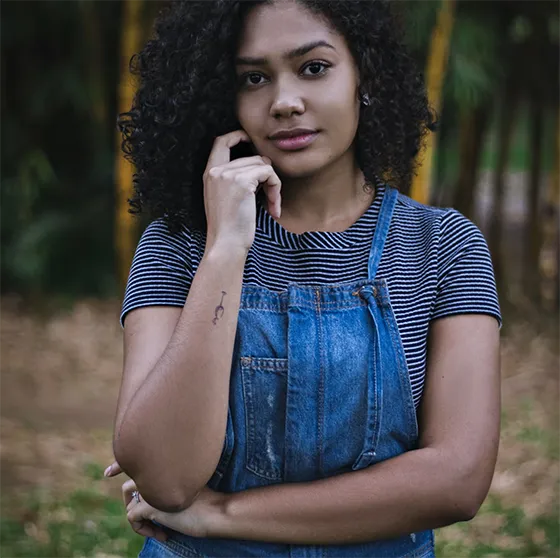
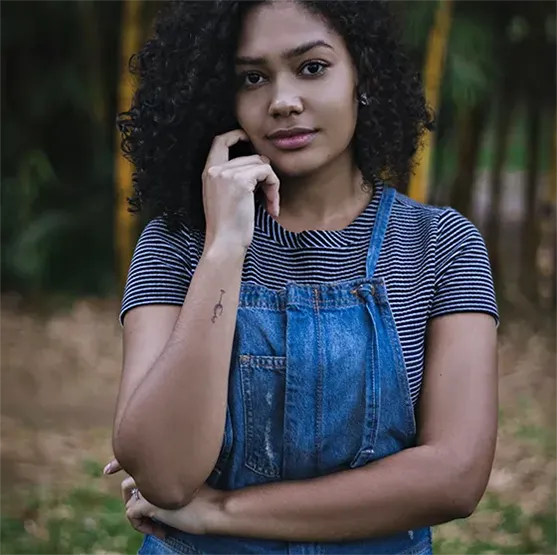
updated files

Changed region(s): [[0.4273, 0.3676, 0.8851, 0.582], [0.2136, 0.3982, 0.3357, 0.582]]

diff --git a/assets/style.css b/assets/style.css
@@ -74,7 +74,7 @@ body {
 }
 
 .picture img {
-	width: 100%;
+	width: 557px;
 	height: auto;
 }
 
@@ -276,6 +276,8 @@ input[type="submit"] {
 @media all and (max-width: 1180px) {
 	.picture {
 		flex: 2;
+		width: 50%;
+		height: auto;
 	}
 
 	#about,
@@ -291,6 +293,7 @@ input[type="submit"] {
 	#about-me h6,
 	#about-me p {
 		width: 100%;
+		height: auto;
 	}
 }
 
@@ -302,6 +305,7 @@ input[type="submit"] {
 
 	.picture {
 		width: 50%;
+		height: auto;
 	}
 
 	.picture.left::before {
@@ -382,6 +386,7 @@ input[type="submit"] {
 	.picture.left::before,
 	.picture.right::before {
 		height: 150px;
+		height: auto;
 	}
 
 	#services .container {
@@ -404,5 +409,6 @@ input[type="submit"] {
 
 	.picture {
 		width: 80%;
+		height: auto;
 	}
 }
